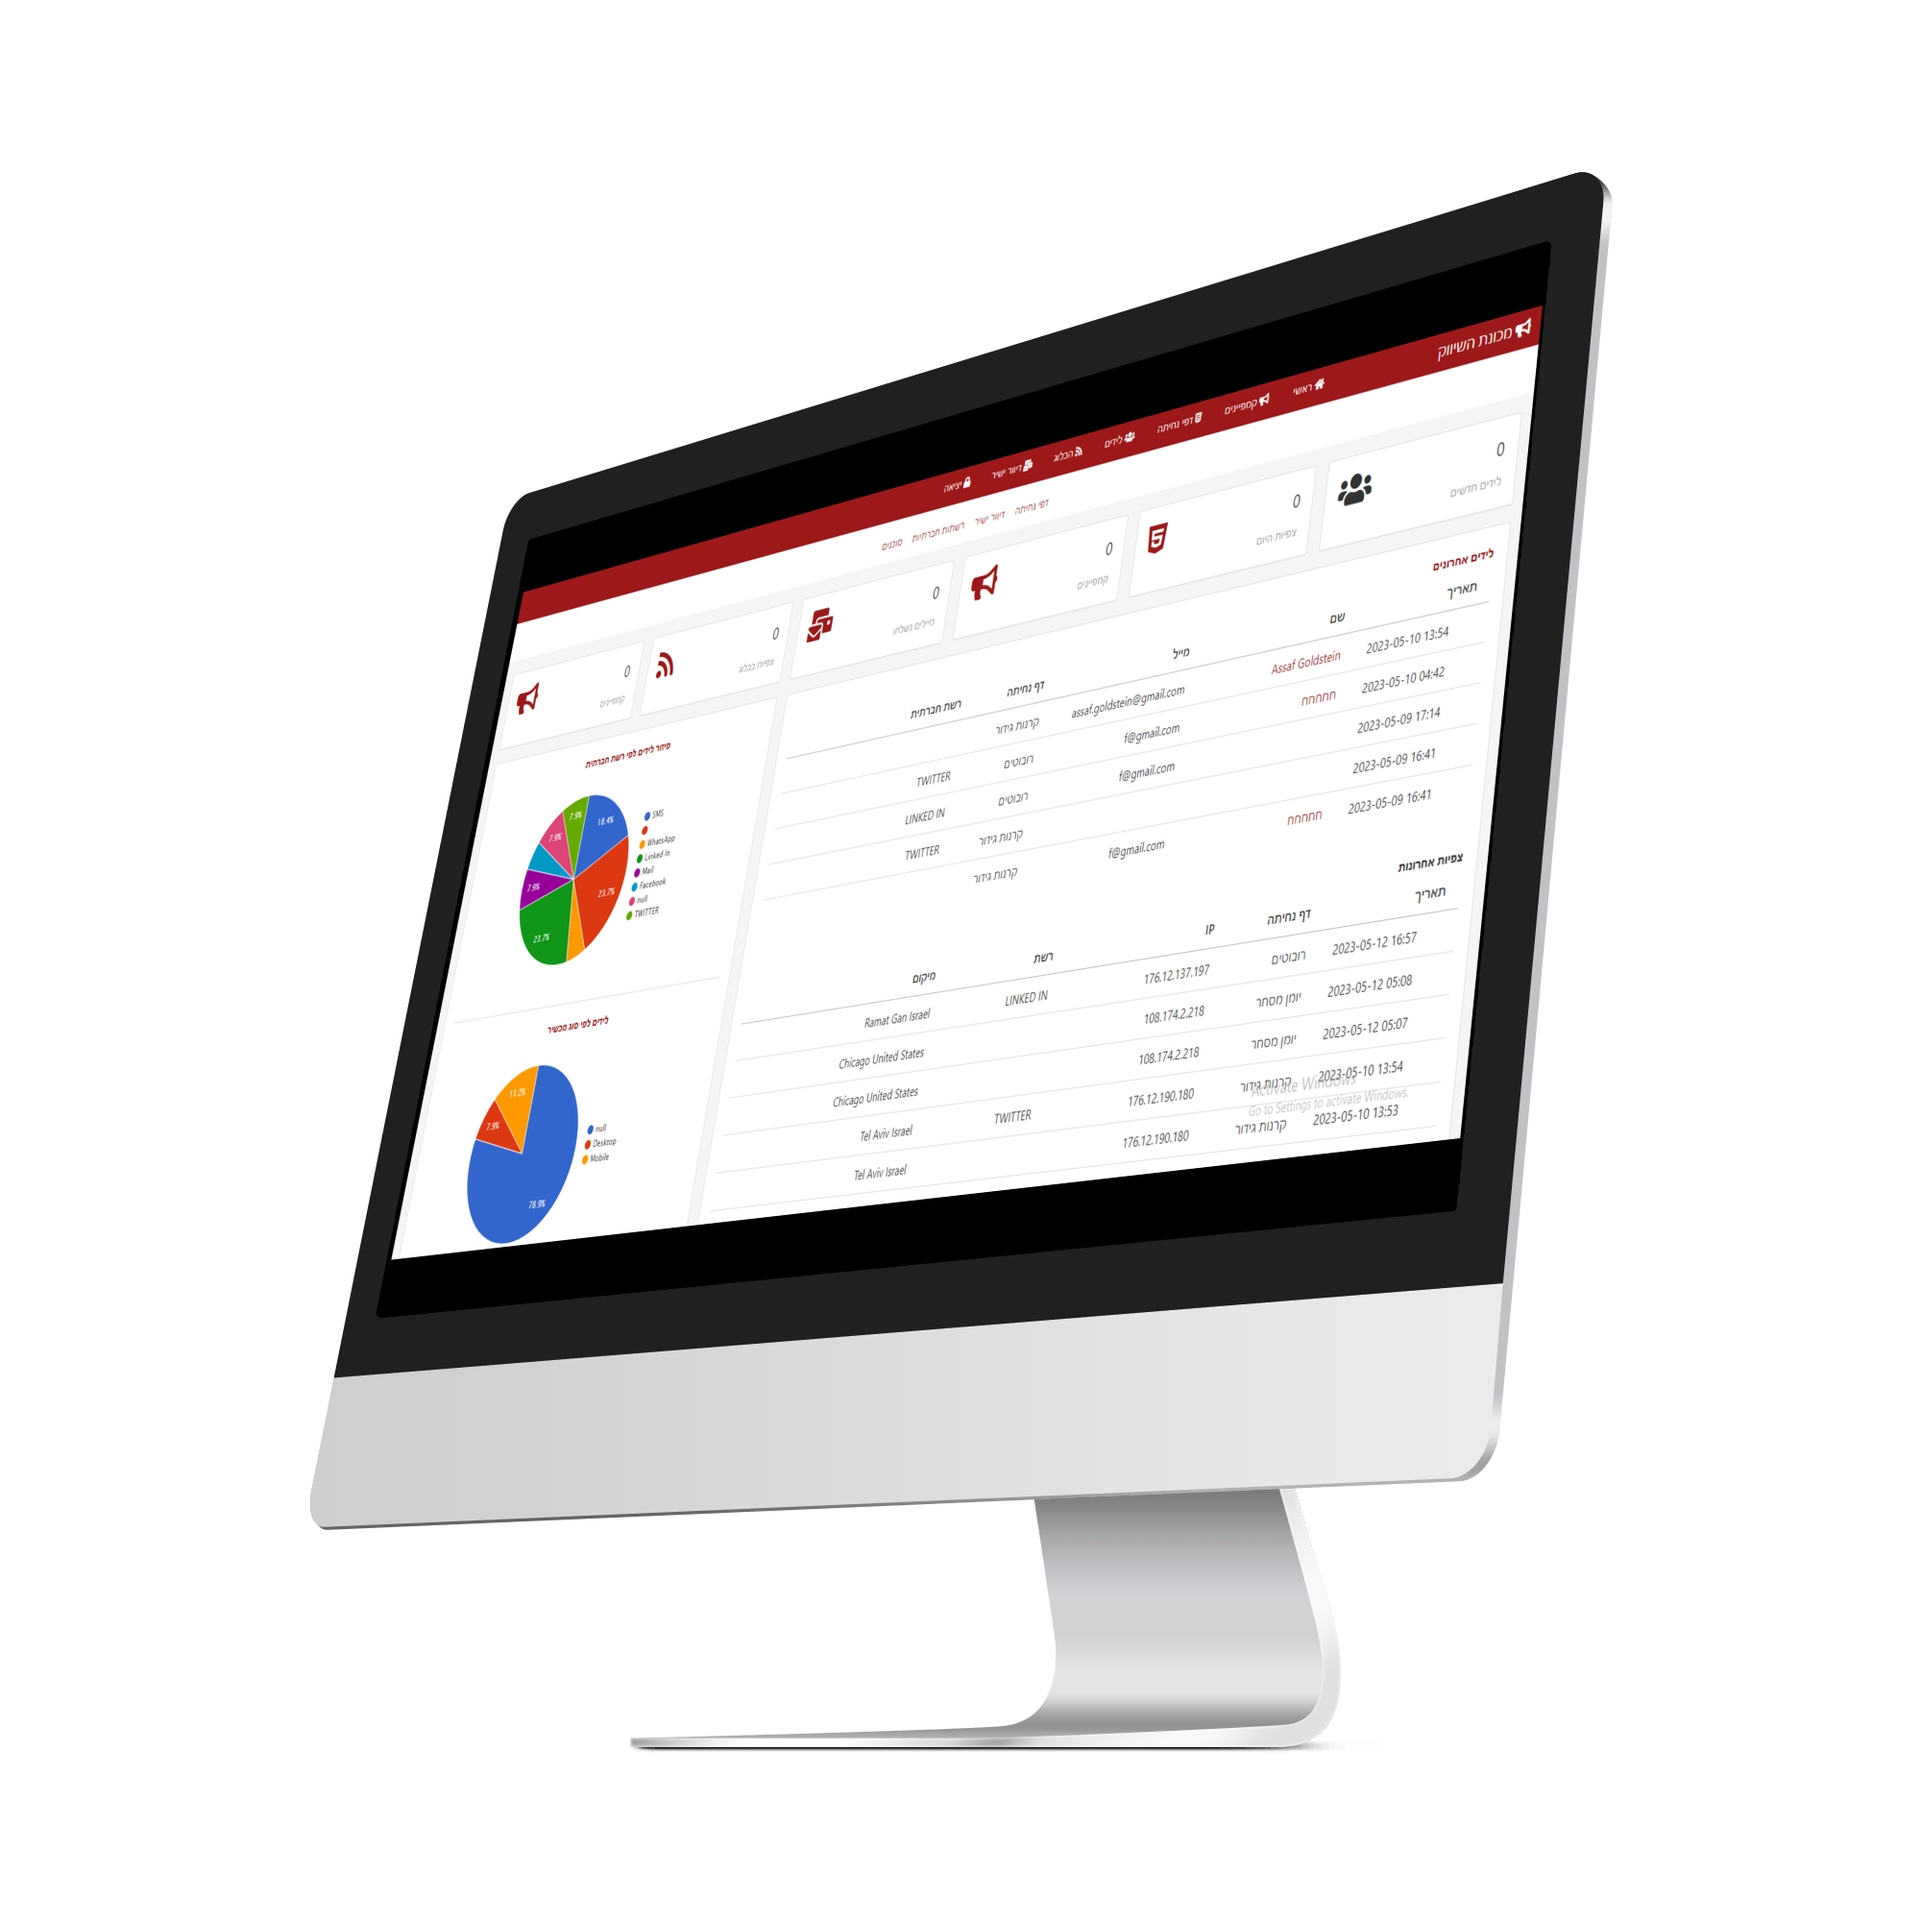
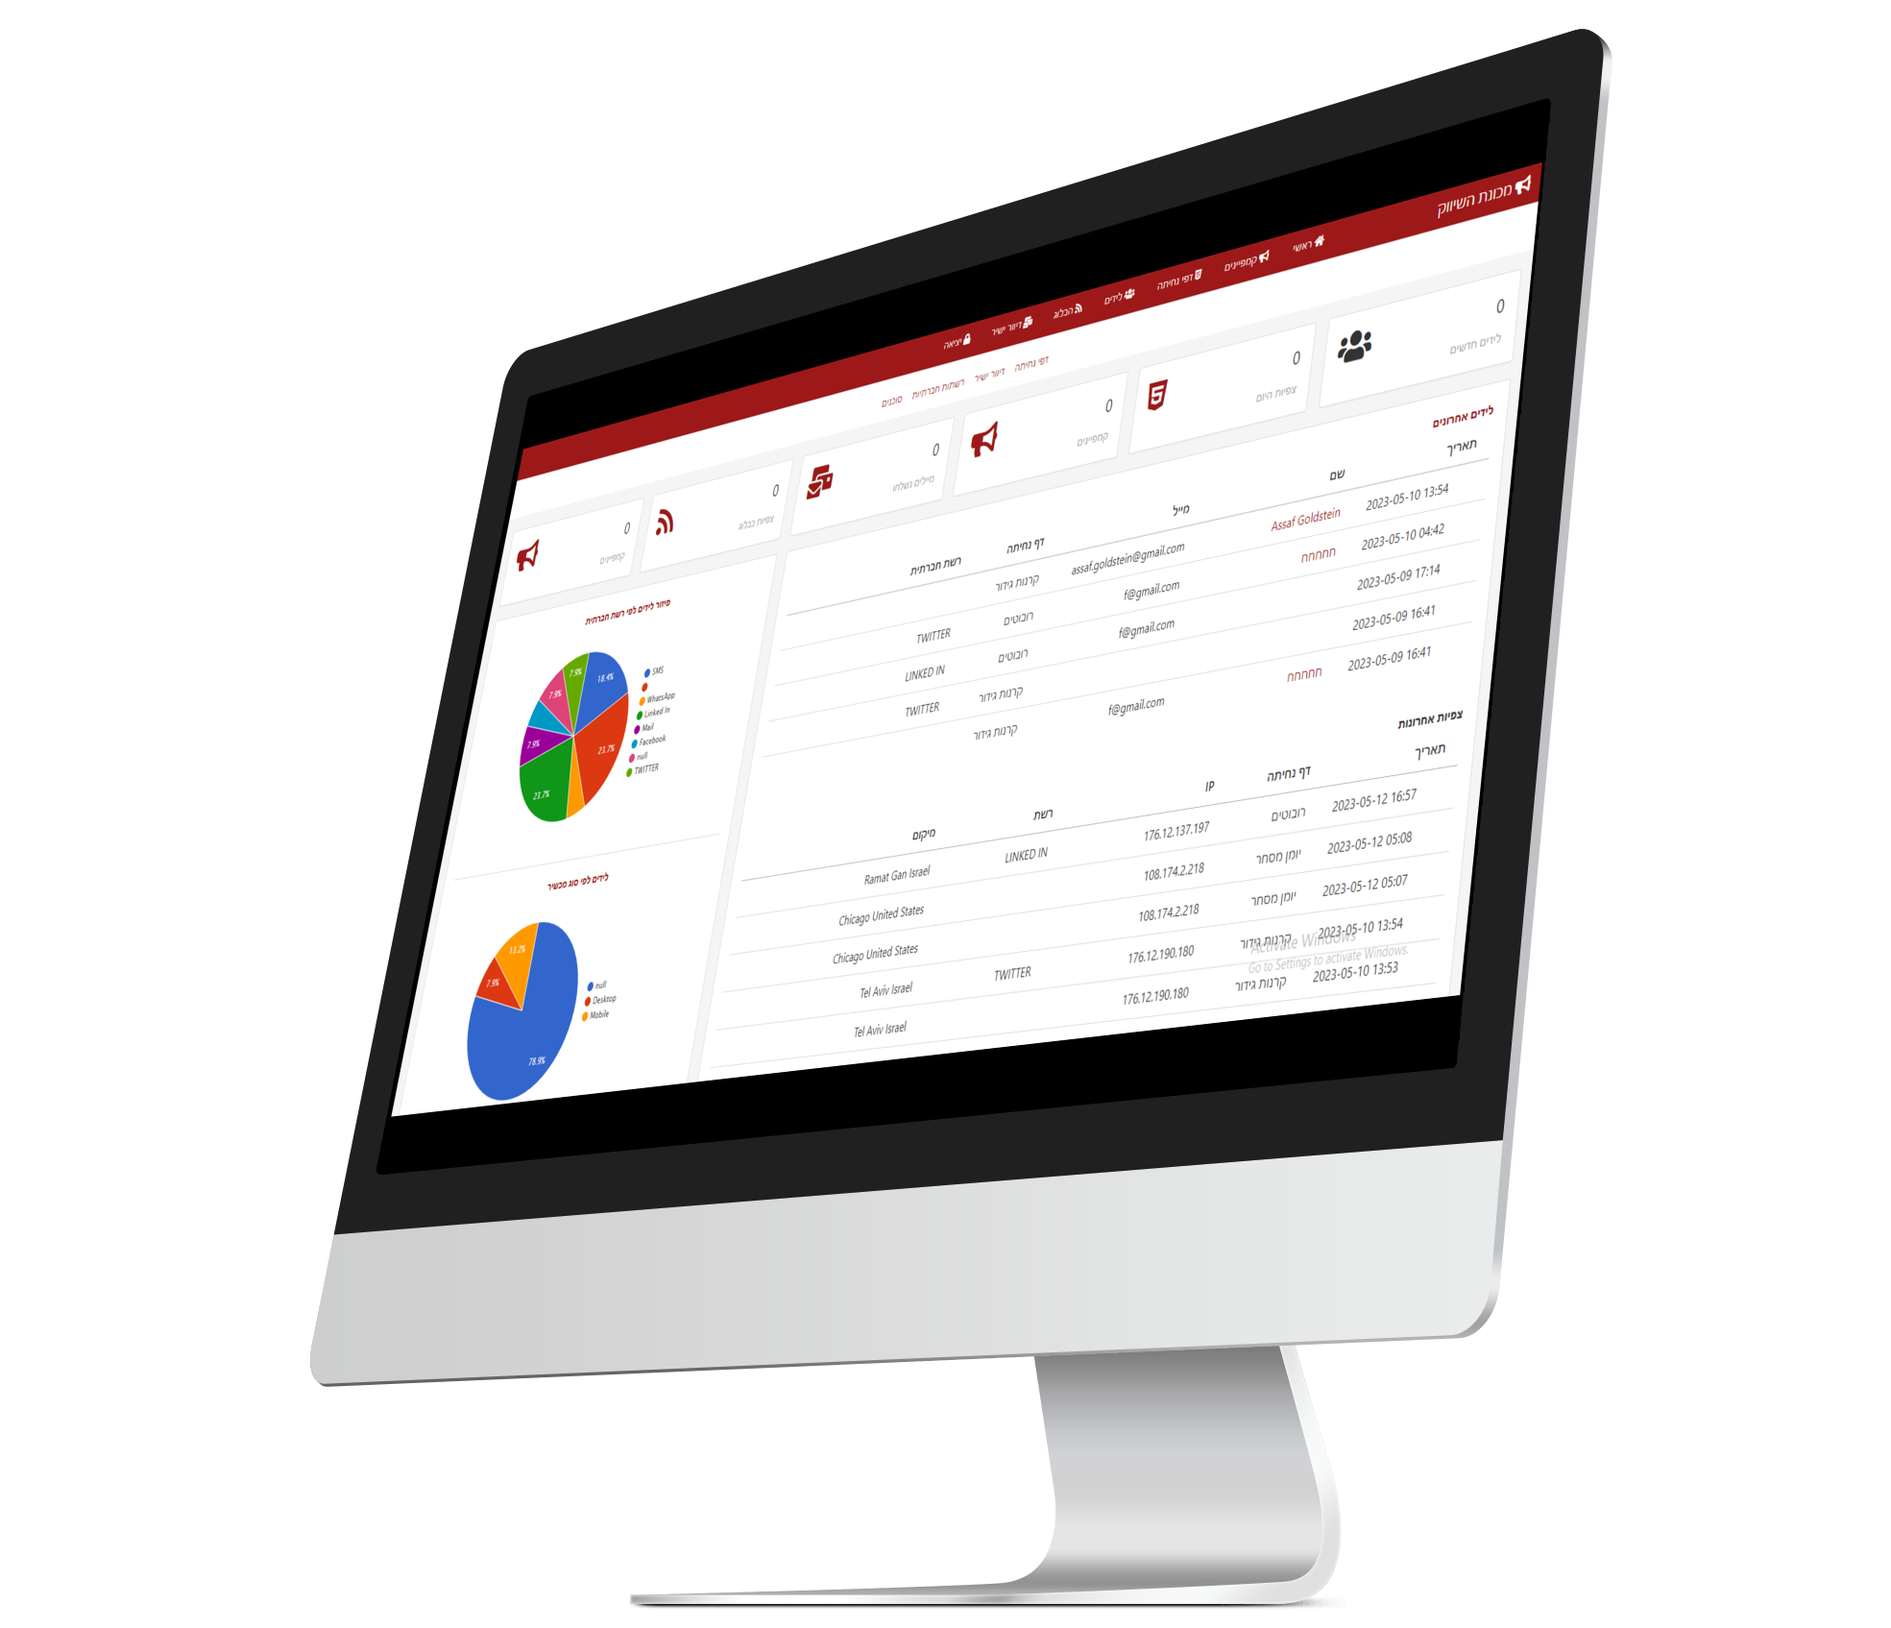
more

diff --git a/_includes/marketing.html b/_includes/marketing.html
@@ -150,9 +150,7 @@
                     </p>
                 </div>
             </div>
-            <div class='col-lg-6'>
-                <br />
-                <br />
+            <div class='col-lg-6' style="vertical-align: top;">
                 <img src="/img/pages-desktop-04.png" width="100%">
             </div>
         </div>
